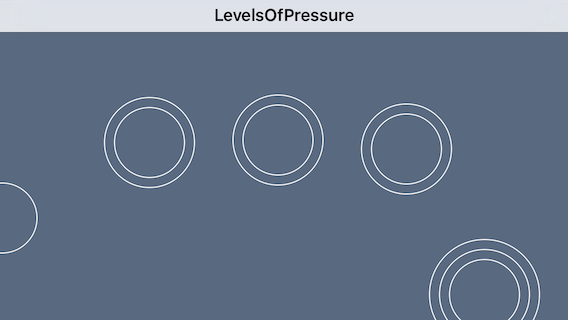
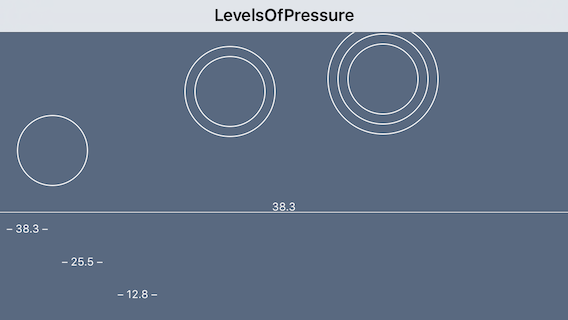
Display numeric majorRadius as a graph.

diff --git a/Classes/LevTouchView.m b/Classes/LevTouchView.m
@@ -1,7 +1,9 @@
 //  Created by David Phillip Oster on 10/03/2015.
 //  Apache Version 2 License
 
-#import "LevView.h"
+#import "LevTouchView.h"
+
+#import "LevGraphView.h"
 #import "LevTouch.h"
 
 
@@ -35,25 +37,43 @@
 
 @end
 
-@interface LevView()
+@interface LevTouchView()
 // The model of this app is this NSSet of LevTouch.
+@property(nonatomic) LevGraphView *graphView;
 @property(nonatomic) NSMutableSet *myTouches;
+@property(nonatomic) int lastIndex;
 @end
 
-@implementation LevView
+@implementation LevTouchView
 
 - (instancetype)initWithFrame:(CGRect)frame {
   self = [super initWithFrame:frame];
   if (self) {
     self.multipleTouchEnabled = YES;
     self.myTouches = [NSMutableSet set];
+    self.graphView = [[LevGraphView alloc] initWithFrame:CGRectZero];
+    [self.graphView setUserInteractionEnabled:NO];
+    [self.graphView setBackgroundColor:[UIColor clearColor]];
+    [self addSubview:self.graphView];
   }
   return self;
+}
+
+- (void)layoutSubviews {
+  [super layoutSubviews];
+  enum {
+    kGraphHeight = 120
+  };
+  CGRect graphFrame = self.bounds;
+  graphFrame.origin.y += graphFrame.size.height - kGraphHeight;
+  graphFrame.size.height = kGraphHeight;
+  [self.graphView setFrame:graphFrame];
 }
 
 - (BOOL)canBecomeFirstResponder {
   return YES;
 }
+
 
 - (void)drawRect:(CGRect)rect {
   CGContextRef c = UIGraphicsGetCurrentContext();
@@ -75,6 +95,9 @@
   for (LevTouch *touch in self.myTouches) {
     if (PointEqualToPoint(touch.location, newTouch.previousLocation)) {
       touch.location = newTouch.location;
+      if (touch.majorRadius != newTouch.majorRadius) {
+        [self.graphView setNeedsDisplay];
+      }
       touch.majorRadius = newTouch.majorRadius;
       touch.previousLocation = newTouch.previousLocation;
       touch.previousMajorRadius = newTouch.previousMajorRadius;
@@ -83,11 +106,40 @@
   }
 }
 
+// Other parts of this object call this when the state changes.
+// It updates the statistics and arranges for redrawing.
+- (void)updateDisplay {
+  for (LevTouch *levTouch in self.myTouches) {
+    if (_graphView.maxRadius < levTouch.majorRadius) {
+      _graphView.maxRadius = levTouch.majorRadius;
+    }
+  }
+  [self setNeedsDisplay];
+}
+
+- (void)rebuildTouchArray {
+  NSMutableArray *touches = [[self.myTouches allObjects] mutableCopy];
+  [touches sortUsingComparator:^(id obj1, id obj2) {
+    LevTouch *a = (LevTouch *)obj1;
+    LevTouch *b = (LevTouch *)obj2;
+    if (a.index < b.index) {
+      return NSOrderedAscending;
+    } if (b.index < a.index) {
+      return NSOrderedDescending;
+    } else {
+      return NSOrderedSame;
+    }
+  }];
+  if (![touches isEqual:self.graphView.touches]) {
+    self.graphView.touches = touches;
+  }
+}
+
 - (void)updateSet:(NSSet *)set {
   for (LevTouch *newTouch in set) {
     [self updateTouch:newTouch];
   }
-  [self setNeedsDisplay];
+  [self updateDisplay];
 }
 
 - (void)minusSet:(NSSet *)set {
@@ -98,12 +150,21 @@
     }
   }
   self.myTouches = newSet;
-  [self setNeedsDisplay];
+  if (0 == [self.myTouches count]) {
+    self.lastIndex = 0;
+  }
+  [self rebuildTouchArray];
+  [self updateDisplay];
 }
 
 - (void)touchesBegan:(NSSet<UITouch *> *)touches withEvent:(nullable UIEvent *)event {
-  [self.myTouches unionSet:[touches asSetOfLevTouchesInView:self]];
-  [self setNeedsDisplay];
+  NSSet *levTouchSet = [touches asSetOfLevTouchesInView:self];
+  for (LevTouch *levTouch in levTouchSet) {
+    levTouch.index = self.lastIndex++;
+  }
+  [self.myTouches unionSet:levTouchSet];
+  [self rebuildTouchArray];
+  [self updateDisplay];
 }
 
 - (void)touchesMoved:(NSSet<UITouch *> *)touches withEvent:(nullable UIEvent *)event {
@@ -116,7 +177,8 @@
 
 - (void)touchesCancelled:(nullable NSSet<UITouch *> *)touches withEvent:(nullable UIEvent *)event {
   [self.myTouches removeAllObjects];
-  [self setNeedsDisplay];
+  self.lastIndex = 0;
+  [self updateDisplay];
 }
 
 

diff --git a/Classes/LevGraphView.m b/Classes/LevGraphView.m
@@ -1,0 +1,69 @@
+//  Created by David Phillip Oster on 10/04/2015.
+//  Apache Version 2 License
+
+#import "LevGraphView.h"
+
+#import "LevTouch.h"
+
+enum {
+  kFontSize = 11,
+  kWidth = 55,
+};
+
+@interface LevGraphView()
+@property(nonatomic) UIFont *font;
+@property(nonatomic) NSDictionary *fontDict;
+@end
+
+@implementation LevGraphView
+
+- (instancetype)initWithFrame:(CGRect)frame {
+  self = [super initWithFrame:frame];
+  if (self) {
+    self.font = [UIFont systemFontOfSize:kFontSize];
+    self.fontDict = @{NSFontAttributeName : self.font,
+                      NSForegroundColorAttributeName : [UIColor whiteColor]};
+  }
+  return self;
+}
+
+- (void)drawRect:(CGRect)rect {
+  [[UIColor whiteColor] set];
+  CGRect bounds = self.bounds;
+  CGRect topline = CGRectMake(0, kFontSize+1, bounds.size.width, 1.0/[[UIScreen mainScreen] scale]);
+  UIRectFill(topline);
+  if (self.maxRadius) {
+    NSString *s = [NSString stringWithFormat:@"%4.1f", _maxRadius];
+    CGSize labelMaxSize = [s sizeWithAttributes:self.fontDict];
+    CGPoint p = CGPointMake((bounds.size.width - labelMaxSize.width)/2, 0);
+    [s drawAtPoint:p withAttributes:self.fontDict];
+    NSUInteger count = [_touches count];
+    for (NSUInteger i = 0; i < count; ++i) {
+      [self drawTouchRadiusAtIndex:i];
+    }
+  }
+}
+
+- (void)drawTouchRadiusAtIndex:(NSUInteger)index {
+  CGFloat totalHeight = self.bounds.size.height - 2*kFontSize;
+  CGRect bounds = CGRectMake(index*kWidth, 2*kFontSize, kWidth, totalHeight);
+  LevTouch *touch = self.touches[index];
+  NSString *s = [NSString stringWithFormat:@"– %4.1f –", touch.majorRadius];
+  CGSize labelSize = [s sizeWithAttributes:self.fontDict];
+  CGFloat dy =  totalHeight*(1 - (touch.majorRadius / self.maxRadius));
+  CGPoint p = CGPointMake(bounds.origin.x + (bounds.size.width - labelSize.width)/2, bounds.origin.y + dy);
+  [s drawAtPoint:p withAttributes:self.fontDict];
+}
+
+- (void)setTouches:(NSArray *)touches {
+  _touches = touches;
+  [self setNeedsDisplay];
+}
+
+- (void)setMaxRadius:(CGFloat) maxRadius {
+  if (_maxRadius != maxRadius) {
+    _maxRadius = maxRadius;
+    [self setNeedsDisplay];
+  }
+}
+@end

diff --git a/Classes/LevViewController.m b/Classes/LevViewController.m
@@ -2,21 +2,14 @@
 //  Apache Version 2 License
 
 #import "LevViewController.h"
-#import "LevView.h"
+#import "LevTouchView.h"
 
 @implementation LevViewController
 
-- (id)initWithNibName:(NSString *)nibNameOrNil bundle:(NSBundle *)nibBundleOrNil {
-  self = [super initWithNibName:nibNameOrNil bundle:nibBundleOrNil];
-  if (self) {
-    [self setTitle:NSLocalizedString(@"LevelsOfPressure", 0)];
-  }
-  return self;
-}
-
 - (void)loadView {
+  [self setTitle:NSLocalizedString(@"LevelsOfPressure", 0)];
   CGRect bounds = [[UIScreen mainScreen] bounds];
-  UIView *view = [[LevView alloc] initWithFrame:bounds];
+  UIView *view = [[LevTouchView alloc] initWithFrame:bounds];
   [view setBackgroundColor:[UIColor colorWithHue:0.6 saturation:0.3 brightness:0.5 alpha:1]];
   [self setView:view];
 }

diff --git a/Classes/LevTouch.h b/Classes/LevTouch.h
@@ -10,6 +10,7 @@
 @property(nonatomic) CGPoint previousLocation;
 @property(nonatomic) CGFloat majorRadius;
 @property(nonatomic) CGFloat previousMajorRadius;
+@property(nonatomic) int index; // An arbitrary nteger used by the owner. isEqual: ignores it.
 
 + (instancetype)levTouchWithTouch:(UITouch *)touch inView:(UIView *)view;
 

diff --git a/Classes/LevGraphView.h b/Classes/LevGraphView.h
@@ -1,0 +1,12 @@
+//  Created by David Phillip Oster on 10/04/2015.
+//  Apache Version 2 License
+
+#import <UIKit/UIKit.h>
+
+@interface LevGraphView : UIView
+
+@property(nonatomic) NSArray *touches;  // input: sorted array of LevTouche
+
+@property(nonatomic) CGFloat maxRadius; // input: the max we've seen so far.
+
+@end

diff --git a/Classes/LevTouchView.h b/Classes/LevTouchView.h
@@ -1,0 +1,9 @@
+//  Created by David Phillip Oster on 10/03/2015.
+//  Apache Version 2 License
+
+#import <UIKit/UIKit.h>
+
+// The app is about this view: it tracks multiple touches, and shows position and pressure.
+@interface LevTouchView : UIView
+
+@end

diff --git a/Classes/LevTouch.m b/Classes/LevTouch.m
@@ -20,6 +20,7 @@
   result.majorRadius = self.majorRadius;
   result.previousLocation = self.previousLocation;
   result.previousMajorRadius = self.previousMajorRadius;
+  result.index = self.index;
   return result;
 }
 

diff --git a/ReadMe.md b/ReadMe.md
@@ -20,7 +20,7 @@ LevelsOfPressure is a demo app, where you can see what that's like on your own d
 
 The mapping between majorRadius and the number of circles is pretty arbitrary. You might want to experiment with that.
 
-It would be an improvement to this app to have it display the min, max, and current majorRadius. It would be easy to add NSLog(@"%g", event.majorRadius); to dump the values as a stream to the Xcode console.
+The numeric values, in the order the fingers touch the display, are graphed at the bottom.
 
 majorRadius was introduced in iOS 8.
 
